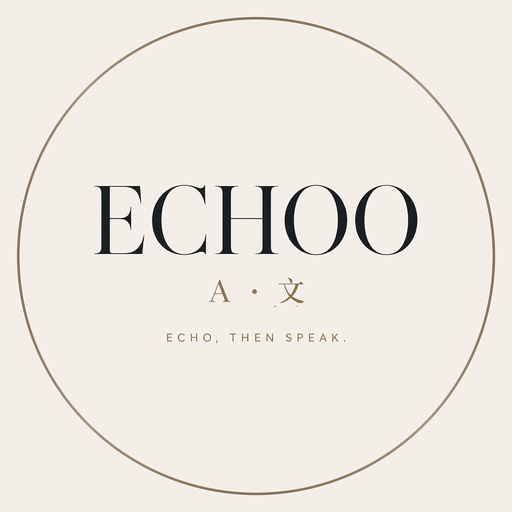
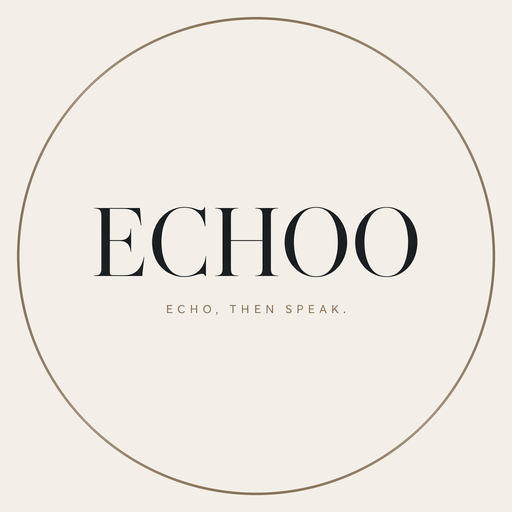
Remove the A-wen mark from the ECHOO seal.
It was a language-learning cue, not a product name, and it read as noise.
The seal now keeps ECHOO and ECHO, THEN SPEAK. on the same center axis.

diff --git a/frontend/public/sw.js b/frontend/public/sw.js
@@ -1,4 +1,4 @@
-const CACHE = "echoo-v3";
+const CACHE = "echoo-v4";
 
 self.addEventListener("install", (event) => {
   event.waitUntil(
